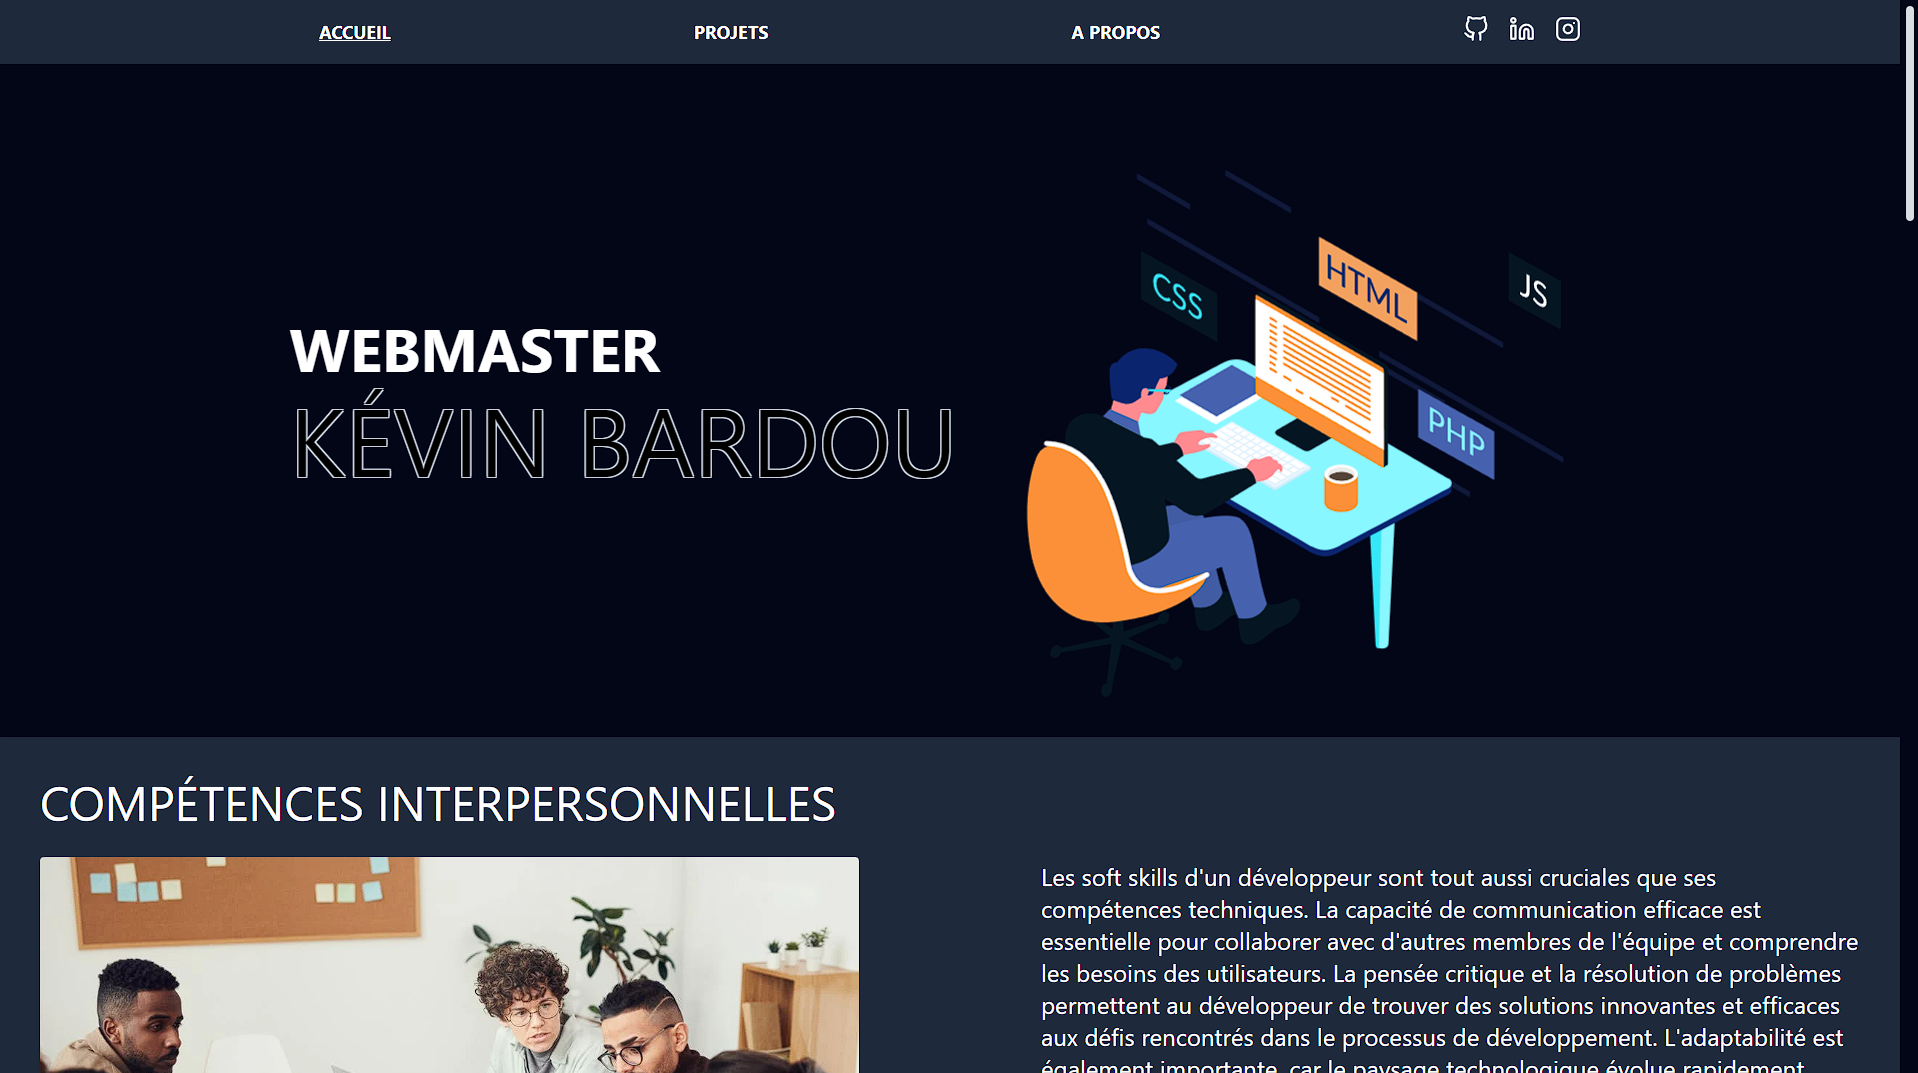
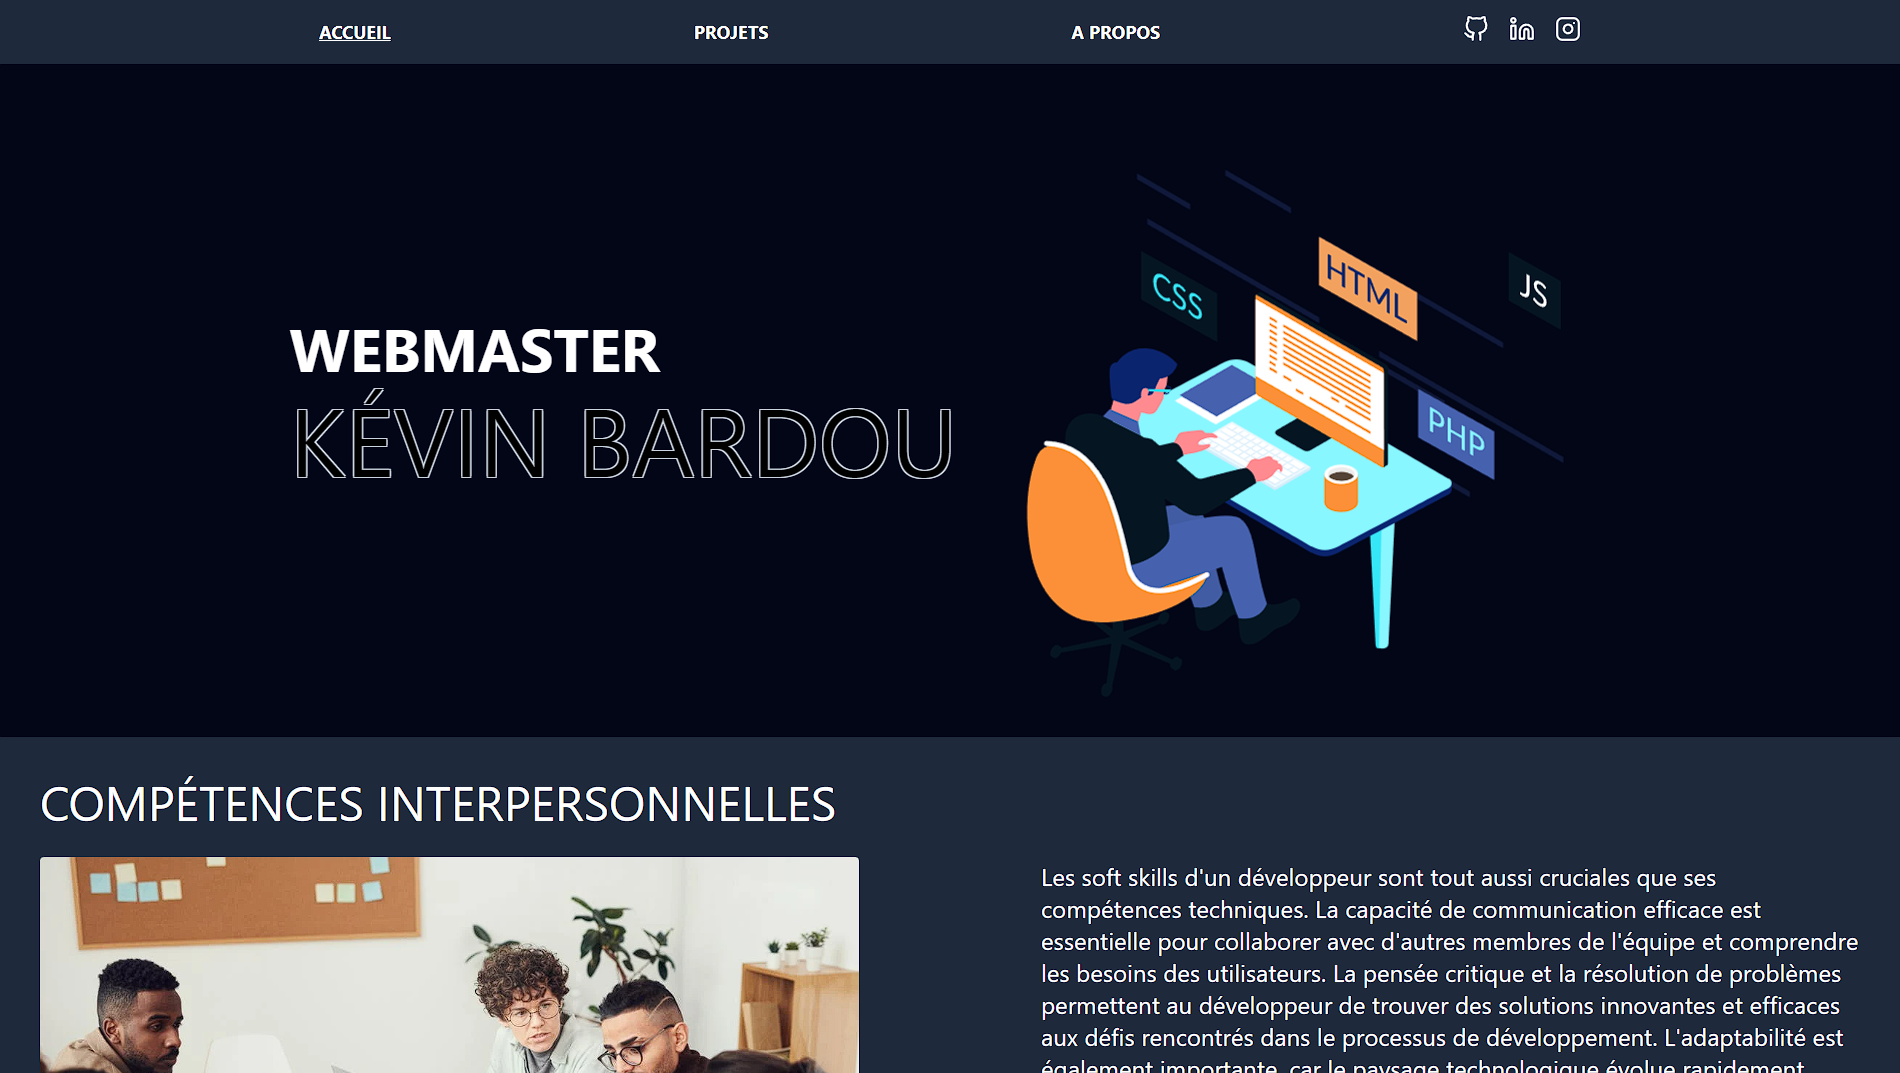
HomeView.vue fix some display bug + ProjectsView.vue is temporary

diff --git a/src/views/HomeView.vue b/src/views/HomeView.vue
@@ -17,7 +17,7 @@
   <section
       class="flex justify-center items-center flex-wrap bg-slate-300 p-4 md:p-10 gap-5 dark:bg-slate-800 md:justify-between">
     <div class="flex flex-col gap-4 md:gap-8 justify-center items-center lg:w-[45%] lg:items-start">
-      <h2 class="text-4xl 2xl:text-5xl uppercase">Le savoir-être</h2>
+      <h2 class="text-4xl 2xl:text-5xl uppercase text-center">Compétences interpersonnelles</h2>
       <img
           :src="SoftSkills"
           alt=""
@@ -40,10 +40,10 @@
   </section>
 
   <!-- TODO: My last experience -->
-  <section class="flex justify-center items-center flex-wrap p-4 md:p-10 gap-5 md:justify-between">
+  <section class="flex justify-center items-center flex-wrap p-4 md:p-10 gap-5 lg:justify-between">
     <div class="flex flex-col gap-4 md:gap-8 justify-center items-center lg:w-[45%] lg:items-start">
       <h2 class="text-4xl 2xl:text-5xl uppercase text-center">Ma dernière experience</h2>
-      <div class="lg:w-[96%] flex flex-col gap-3">
+      <div class="lg:w-[96%] flex flex-col gap-3 justify-center items-center md:items-start">
         <p class="text-xl lg:text-2xl p-2 md:p-0 text-center lg:text-left">
           Pendant mon alternance chez Wodandgo, une entreprise spécialisée dans les accessoires de CrossFit, j'ai occupé
           le poste de webmaster, responsable du site e-commerce. Travaillant avec la stack Wordpress WooCommerce et
@@ -60,6 +60,10 @@
           l'entreprise
           dans l'industrie en plein essor du fitness et du CrossFit.
         </p>
+        <a target="_blank" href="https://wodandgo.com"
+           class="cursor-pointer mt-5 text-lg text-center bg-slate-400 dark:bg-slate-600 transition-all border-[3px] border-slate-300 dark:border-slate-600 uppercase rounded font-bold px-4 py-2 hover:border-slate-400 hover:bg-slate-400 hover:text-white dark:hover:border-slate-600 dark:hover:bg-slate-800">En
+          savoir plus
+        </a>
       </div>
     </div>
     <div class="lg:w-[50%] flex justify-center">
@@ -78,7 +82,7 @@
           alt=""
           class="w-full lg:rounded shadow-2xl">
     </div>
-    <div class="lg:w-[45%] flex flex-col gap-3">
+    <div class="lg:w-[45%] flex flex-col gap-3 justify-center items-center lg:items-start">
       <p class="text-xl lg:text-2xl p-2 md:p-0 text-center lg:text-left">Mon dernier projet personnel, baptisé
         Dittobask, est
         une simulation d'un site de NFT (tokens non fongibles) conçu dans un esprit d'exploration et d'apprentissage.
@@ -90,6 +94,8 @@
         notre projet. Dittobask incarne notre passion commune pour la technologie et l'art numérique, tout en nous
         offrant une précieuse opportunité d'explorer de nouveaux concepts et techniques dans le domaine en constante
         évolution des NFT.</p>
+      <a href="https://dev-crisis.github.io/dittobask/" class="mt-5 text-lg text-center bg-slate-400 dark:bg-slate-600 transition-all border-[3px] border-slate-300 dark:border-slate-600 uppercase rounded font-bold px-4 py-2 hover:border-slate-400 hover:bg-slate-400 hover:text-white dark:hover:border-slate-600 dark:hover:bg-slate-800">En savoir plus
+      </a>
     </div>
   </section>
 
@@ -115,7 +121,7 @@
       </div>
     </div>
     <div class="w-full lg:w-[45%] flex flex-col lg:gap-3">
-      <Vue3Marquee class="flex" pause-on-hover :duration="30">
+      <Vue3Marquee class="flex" pause-on-hover direction="reverse" :duration="30">
         <StackCard stackName="VueJS" stackDescription="C'est ma description du con !"/>
         <StackCard stackName="ReactJS" stackDescription="C'est ma description du con !"/>
         <StackCard stackName="NextJS" stackDescription="C'est ma description du con !"/>
@@ -129,10 +135,11 @@
       </Vue3Marquee>
     </div>
   </section>
+
   <!-- TODO: My career path -->
   <section
       class="flex justify-center items-center flex-wrap bg-slate-300 p-4 md:p-10 gap-5 dark:bg-slate-800 md:justify-between">
-    <div class="flex flex-col gap-4 md:gap-8 justify-center px-5 items-center lg:w-[45%] lg:items-start">
+    <div class="flex flex-col gap-4 md:gap-8 justify-center p-5 items-center lg:w-[45%] lg:items-start">
       <h2 class="text-4xl 2xl:text-5xl uppercase">Mon parcours</h2>
       <ol class="relative border-s border-gray-200 dark:border-gray-700">
         <li class="mb-10 ms-8">
@@ -196,7 +203,7 @@
   </section>
 
   <!-- TODO: My story -->
-  <section class="flex justify-center items-center flex-wrap p-4 md:p-10 gap-5 md:justify-between">
+  <section class="flex justify-center items-center flex-wrap p-4 md:p-10 gap-5 lg:justify-between">
     <div class="flex flex-col gap-4 md:gap-8 justify-center items-center lg:w-[45%] lg:items-start">
       <h2 class="text-4xl 2xl:text-5xl uppercase">Mon histoire</h2>
       <div class="lg:w-[96%] flex flex-col gap-3 items-center md:items-start justify-center">
@@ -215,16 +222,17 @@
           surmontés et sur les victoires remportées, cliquez maintenant pour plonger dans mon histoire inspirante et
           découvrir ce qui me rend véritablement passionné.
         </p>
-        <RouterLink to="/about"
-                    class="mt-5 text-lg text-center bg-slate-300 dark:bg-slate-800 transition-all border-[3px] border-slate-300 dark:border-slate-800 uppercase rounded font-bold px-4 py-2 hover:border-slate-300 hover:bg-slate-400 hover:text-white dark:hover:border-slate-800 dark:hover:bg-slate-950"
-                    active-class="underline">Mon Histoire
-        </RouterLink>
+<!--        <RouterLink to="/about"-->
+<!--                    class="mt-5 text-lg text-center bg-slate-300 dark:bg-slate-800 transition-all border-[3px] border-slate-300 dark:border-slate-800 uppercase rounded font-bold px-4 py-2 hover:border-slate-300 hover:bg-slate-400 hover:text-white dark:hover:border-slate-800 dark:hover:bg-slate-950"-->
+<!--                    active-class="underline">Mon Histoire-->
+<!--        </RouterLink>-->
       </div>
     </div>
     <div class="lg:w-[40%] flex justify-center">
       <Vue3Lottie no-margin :animationData="Story"/>
     </div>
   </section>
+
 </template>
 <script setup>
 import HeroBanner from '../assets/animations/hero-banner.json'

diff --git a/src/components/NavBar.vue b/src/components/NavBar.vue
@@ -1,26 +1,33 @@
 <script setup>
 import {ref} from "vue";
+
 let classMenu = ref("-translate-x-full");
 </script>
 <template>
   <nav class="hidden md:block p-4 sticky bg-slate-300 dark:bg-slate-800">
     <ul class="flex w-full justify-evenly items-center">
       <li>
-        <RouterLink to="/" class="uppercase text-lg font-bold" active-class="underline">Accueil</RouterLink>
-      </li>
-      <li>
-        <RouterLink to="/projects" class="uppercase text-lg font-bold" active-class="underline">Projets</RouterLink>
-      </li>
-      <li>
-        <RouterLink to="/about" class="uppercase text-lg font-bold" active-class="underline">A propos</RouterLink>
+        <div class="flex gap-8 items-center justify-center">
+          <RouterLink title="Accueil" to="/" class="uppercase text-lg font-bold" active-class="underline">Accueil
+          </RouterLink>
+          <RouterLink title="Projets" to="/projects" class="uppercase text-lg font-bold" active-class="underline">
+            Projets
+          </RouterLink>
+          <!--        <RouterLink title="A propos" to="/about" class="uppercase text-lg font-bold" active-class="underline">A propos-->
+          <!--        </RouterLink>-->
+        </div>
       </li>
       <li>
         <div class="flex items-center justify-center gap-5">
-          <a target="_blank" href="https://github.com/Dev-Crisis">
+          <a target="_blank" href="https://github.com/Dev-Crisis" title="Link to my Github">
             <vue-feather size="26" type="github"></vue-feather>
           </a>
-          <a target="_blank" href="https://www.linkedin.com/in/k%C3%A9vin-bardou-17071a212/">
+          <a target="_blank" href="https://www.linkedin.com/in/k%C3%A9vin-bardou-17071a212/"
+             title="Link to my LinkedIn">
             <vue-feather size="26" type="linkedin"></vue-feather>
+          </a>
+          <a title="Link to my Instagram" target="_blank" href="https://www.instagram.com/dev_crisis/?hl=fr">
+            <vue-feather size="26" type="instagram"></vue-feather>
           </a>
         </div>
       </li>
@@ -39,27 +46,34 @@ let classMenu = ref("-translate-x-full");
                    size="36"
                    @click.passive="classMenu = '-translate-x-full'"></vue-feather>
       <li>
-        <RouterLink to="/" class="uppercase text-3xl font-bold" @click.passive="classMenu = '-translate-x-full'"
-                    active-class="underline">Home
-        </RouterLink>
-      </li>
-      <li>
-        <RouterLink to="/projects" class="uppercase text-3xl font-bold" @click.passive="classMenu = '-translate-x-full'"
-                    active-class="underline">Projects
-        </RouterLink>
-      </li>
-      <li>
-        <RouterLink to="/about" class="uppercase text-3xl font-bold" @click.passive="classMenu = '-translate-x-full'"
-                    active-class="underline">About
-        </RouterLink>
+        <div class="flex gap-16 flex-col justify-center items-center">
+
+          <RouterLink title="Accueil" to="/" class="uppercase text-3xl font-bold"
+                      @click.passive="classMenu = '-translate-x-full'"
+                      active-class="underline">Accueil
+          </RouterLink>
+
+          <RouterLink title="Projets" to="/projects" class="uppercase text-3xl font-bold"
+                      @click.passive="classMenu = '-translate-x-full'"
+                      active-class="underline">Projets
+          </RouterLink>
+          <!--        <RouterLink title="A propos" to="/about" class="uppercase text-3xl font-bold"-->
+          <!--                    @click.passive="classMenu = '-translate-x-full'"-->
+          <!--                    active-class="underline">A Propos-->
+          <!--        </RouterLink>-->
+        </div>
       </li>
       <li>
         <div class="flex items-center justify-center gap-5">
-          <a target="_blank" href="https://github.com/Dev-Crisis">
+          <a title="Link to my Github" target="_blank" href="https://github.com/Dev-Crisis">
             <vue-feather type="github" size="36"></vue-feather>
           </a>
-          <a target="_blank" href="https://www.linkedin.com/in/k%C3%A9vin-bardou-17071a212/">
+          <a title="Link to my LinkedIn" target="_blank"
+             href="https://www.linkedin.com/in/k%C3%A9vin-bardou-17071a212/">
             <vue-feather type="linkedin" size="36"></vue-feather>
+          </a>
+          <a title="Link to my Instagram" target="_blank" href="https://www.instagram.com/dev_crisis/?hl=fr">
+            <vue-feather type="instagram" size="36"></vue-feather>
           </a>
         </div>
       </li>

diff --git a/src/components/Footer.vue b/src/components/Footer.vue
@@ -1,28 +1,32 @@
 <template>
-  <footer class="sticky">
+  <footer>
     <div class="p-4 flex gap-3 flex-col justify-center items-center bg-slate-300 dark:bg-slate-800 w-full">
       <h2 class="text-4xl sm:text-5xl md:text-6xl 2xl:text-6xl text-black uppercase text-shadow-black dark:text-shadow-white">
         Kevin Bardou</h2>
       <h3 class="text-3xl md:text-4xl 2xl:text-4xl uppercase">Webmaster</h3>
     </div>
-    <nav class="p-4 bg-slate-300 dark:bg-slate-800">
-      <ul class="flex flex-wrap justify-evenly items-center gap-10 mt-5">
-        <li>
-          <RouterLink to="/" class="uppercase font-bold" active-class="underline">Accueil</RouterLink>
+    <nav class="py-1 bg-slate-300 dark:bg-slate-800">
+      <ul class="flex flex-wrap justify-evenly items-center gap-10 mt-5 flex-col md:flex-row">
+        <li class="p-4">
+          <div class="flex gap-10 items-center justify-center">
+
+            <RouterLink title="Accueil" to="/" class="uppercase font-bold" active-class="underline">Accueil</RouterLink>
+            <RouterLink title="Projets" to="/projects" class="uppercase font-bold" active-class="underline">Projets
+            </RouterLink>
+            <!--          <RouterLink title="A propos" to="/about" class="uppercase font-bold" active-class="underline">A propos</RouterLink>-->
+          </div>
         </li>
-        <li>
-          <RouterLink to="/projects" class="uppercase font-bold" active-class="underline">Projets</RouterLink>
-        </li>
-        <li>
-          <RouterLink to="/about" class="uppercase font-bold" active-class="underline">A propos</RouterLink>
-        </li>
-        <li>
+        <li class="border-t-2 border-slate-950 md:border-none w-full md:w-auto flex justify-center p-4">
           <div class="flex gap-5">
-            <a href="https://github.com/Dev-Crisis">
+            <a title="Link to my Github" target="_blank" href="https://github.com/Dev-Crisis">
               <vue-feather type="github"></vue-feather>
             </a>
-            <a href="https://www.linkedin.com/in/k%C3%A9vin-bardou-17071a212/">
+            <a title="Link to my LinkedIn" target="_blank"
+               href="https://www.linkedin.com/in/k%C3%A9vin-bardou-17071a212/">
               <vue-feather type="linkedin"></vue-feather>
+            </a>
+            <a title="Link to my Instagram" target="_blank" href="https://www.instagram.com/dev_crisis/?hl=fr">
+              <vue-feather type="instagram"></vue-feather>
             </a>
           </div>
         </li>

diff --git a/src/components/NotFound.vue b/src/components/NotFound.vue
@@ -1,36 +1,9 @@
 <template>
-  <footer class="sticky">
-    <div class="p-4 flex gap-3 flex-col justify-center items-center bg-slate-300 dark:bg-slate-800 w-full">
-      <h2 class="text-4xl sm:text-5xl md:text-6xl 2xl:text-6xl text-black uppercase text-shadow-black dark:text-shadow-white">
-        Kevin Bardou</h2>
-      <h3 class="text-3xl md:text-4xl 2xl:text-4xl uppercase">Webmaster</h3>
-    </div>
-    <nav class="p-4 bg-slate-300 dark:bg-slate-800">
-      <ul class="flex flex-wrap justify-evenly items-center gap-10 mt-5">
-        <li>
-          <RouterLink title="Accueil" to="/" class="uppercase font-bold" active-class="underline">Accueil</RouterLink>
-        </li>
-        <li>
-          <RouterLink title="Projets" to="/projects" class="uppercase font-bold" active-class="underline">Projets</RouterLink>
-        </li>
-        <li>
-          <RouterLink title="A propos" to="/about" class="uppercase font-bold" active-class="underline">A propos</RouterLink>
-        </li>
-        <li>
-          <div class="flex gap-5">
-            <a title="Link to my Github" target="_blank" href="https://github.com/Dev-Crisis">
-              <vue-feather type="github"></vue-feather>
-            </a>
-            <a title="Link to my LinkedIn" target="_blank" href="https://www.linkedin.com/in/k%C3%A9vin-bardou-17071a212/">
-              <vue-feather type="linkedin"></vue-feather>
-            </a>
-            <a title="Link to my Instagram" target="_blank" href="https://www.instagram.com/dev_crisis/?hl=fr">
-              <vue-feather type="instagram"></vue-feather>
-            </a>
-          </div>
-        </li>
-      </ul>
-    </nav>
-    <div class="dark:bg-slate-900 bg-slate-400 p-4 text-center">© 2024 Made and Designed by Kevin Bardou</div>
-  </footer>
+  <RouterLink title="Retourner à l'accueil" to="/" class="uppercase text-lg font-bold" active-class="underline">
+    <Vue3Lottie no-margin :animationData="NotFound" @click.passive=""/>
+  </RouterLink>
 </template>
+<script setup lang="ts">
+import {Vue3Lottie} from "vue3-lottie";
+import NotFound from "../assets/animations/404.json";
+</script>

diff --git a/src/views/ProjectsView.vue b/src/views/ProjectsView.vue
@@ -1,7 +1,19 @@
 <template>
-  <h1 class="uppercase text-4xl">Projects</h1>
-  <!-- TODO: Reversed Projects Display  -->
-  <section>
-    <h2 class="text-2xl uppercase">My Latest projects</h2>
+  <section class="p-4 flex flex-col items-start justify-center gap-10 w-full">
+    <h1 class="text-4xl 2xl:text-5xl uppercase text-center">Derniers Projets</h1>
+    <div class="py-5 lg:py-10 flex flex-col gap-10 items-center justify-center w-full md:flex-row md:gap-16">
+      <ProjectCard v-for="t in tt" :project-summary="t.summary" :project-image-path="t.imagePath" :project-link="t.link"
+                   :project-name="t.name"/>
+    </div>
   </section>
 </template>
+<script setup>
+import ProjectCard from "../components/ProjectCard.vue";
+
+const tt = [
+  {name: "Dittobask", summary: "Un projet simulant un site vitrine de NFT...", link: "https://dev-crisis.github.io/dittobask/", imagePath: Dittobask},
+  {name: "Portfolio", summary: "Le projet me concernant le plus possible mon CV numérique...", link: "/", imagePath: Portfolio},
+]
+import Dittobask from '../assets/projects/dittobask.webp'
+import Portfolio from '../assets/projects/portfolio.webp'
+</script>

diff --git a/src/components/ProjectCard.vue b/src/components/ProjectCard.vue
@@ -1,13 +1,14 @@
 <template>
-  <div class="m-4 w-[250px] h-[200px] bg-slate-300 dark:bg-slate-800 flex flex-col items-center justify-center gap-5 rounded-lg py-6">
-    <h3 class="font-bold text-2xl rounded-full bg-slate-800 dark:bg-slate-300 py-2 px-3 text-white dark:text-slate-950">
-      {{ stackName }}</h3>
-    <p class="text-slate-950 dark:text-white">{{ stackDescription }}</p>
+  <div class="w-[300px] lg:w-[500px] bg-slate-300 dark:bg-slate-800 rounded-2xl flex flex-col items-center justify-center gap-4">
+    <img :src="projectImagePath" :alt="projectName" class="rounded-t-2xl" width="100%">
+    <h4 class="text-2xl font-bold underline uppercase">{{projectName}}</h4>
+    <p class="text-center w-11/12">{{projectSummary}}</p>
+    <a target="_blank" class="uppercase font-bold py-2 px-4 bg-slate-300 dark:bg-slate-600 w-full text-center rounded-b-2xl transition-all hover:bg-slate-950" :href="projectLink">Voir</a>
   </div>
 </template>
 
 <script>
 export default {
-  props: ['stackName', 'stackDescription']
+  props: ['projectImagePath', 'projectName', 'projectSummary', 'projectLink']
 }
 </script>

diff --git a/src/router.js b/src/router.js
@@ -1,13 +1,15 @@
-import {createMemoryHistory, createRouter} from 'vue-router'
+import {createRouter, createMemoryHistory} from 'vue-router'
 
 import HomeView from './views/HomeView.vue';
 import ProjectsView from './views/ProjectsView.vue';
 import AboutView from './views/AboutView.vue';
+import NotFound from "./components/NotFound.vue";
 
 const routes = [
-    {path: '/', component: HomeView, meta: {title: "Home"}},
-    {path: '/projects', component: ProjectsView, meta: {title: "Projects"}},
-    {path: '/about', component: AboutView, meta: {title: "About"},},
+    {path: '/', component: HomeView, meta: {title: "Accueil"}},
+    {path: '/projects', component: ProjectsView, meta: {title: "Projets"}},
+    {path: '/about', component: AboutView, meta: {title: "A Propos"},},
+    {path: '/:pathMatch(.*)*', component: NotFound },
 ]
 
 const router = createRouter({

diff --git a/src/views/AboutView.vue b/src/views/AboutView.vue
@@ -1,15 +1,17 @@
 <template>
-  <h1 class="uppercase text-4xl">About</h1>
+  <section class="p-4 flex ">
+    <h1 class="text-4xl 2xl:text-5xl uppercase text-center">A propos</h1>
+  </section>
   <!-- TODO: My student path  -->
   <section>
-    <h2 class="text-2xl uppercase">My Student path</h2>
+    <!--    <h2 class="text-2xl uppercase">My Student path</h2>-->
   </section>
   <!-- TODO: LIDEM -->
   <section>
-    <h2 class="text-2xl uppercase">LIDEM</h2>
+    <!--    <h2 class="text-2xl uppercase">LIDEM</h2>-->
   </section>
   <!-- TODO: My hobbies -->
   <section>
-    <h2 class="text-2xl uppercase">My Hobbies</h2>
+    <!--    <h2 class="text-2xl uppercase">My Hobbies</h2>-->
   </section>
 </template>
